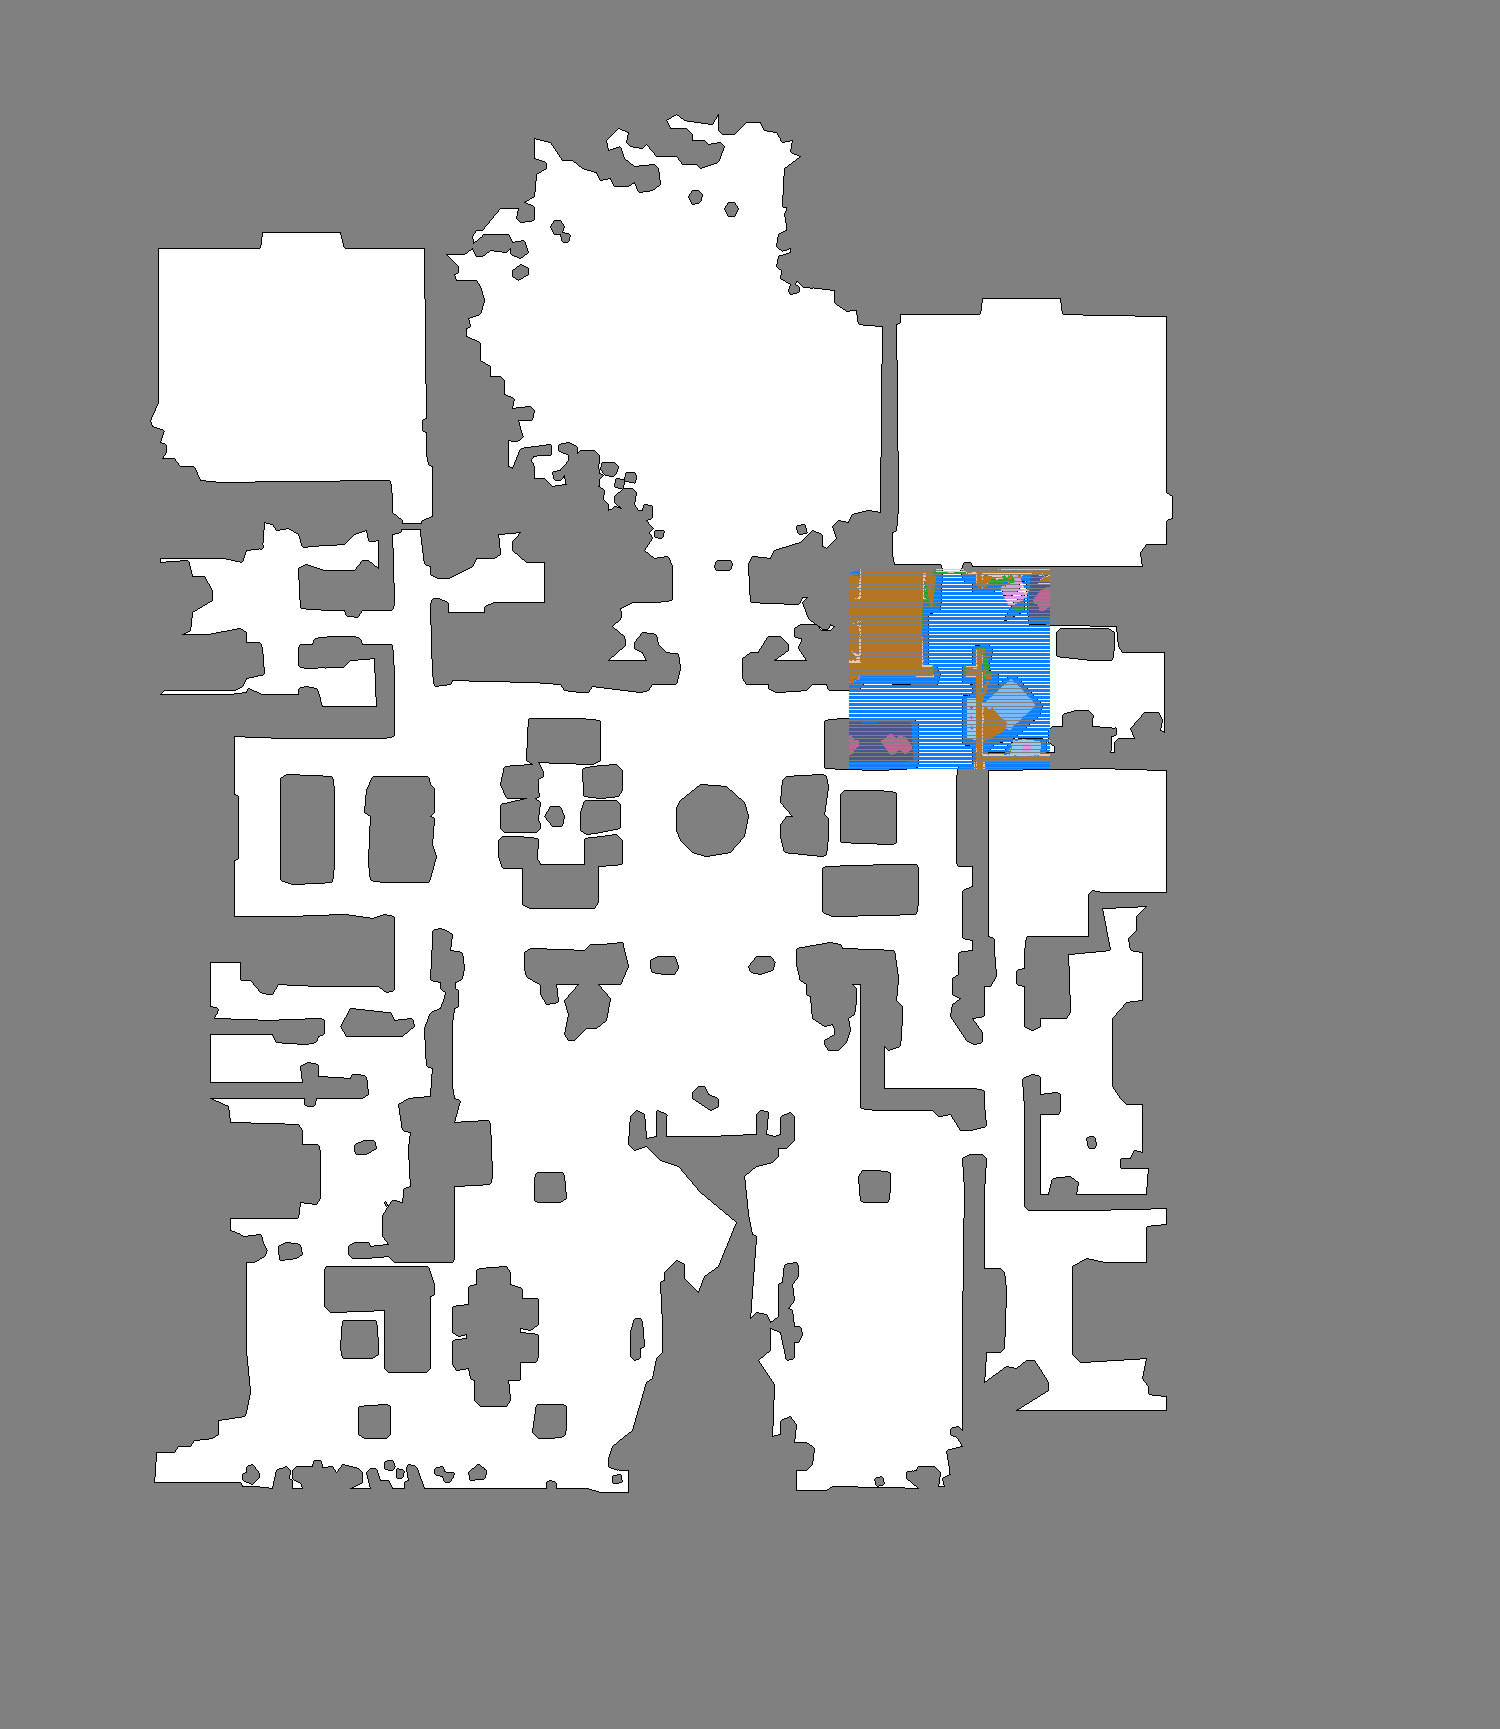
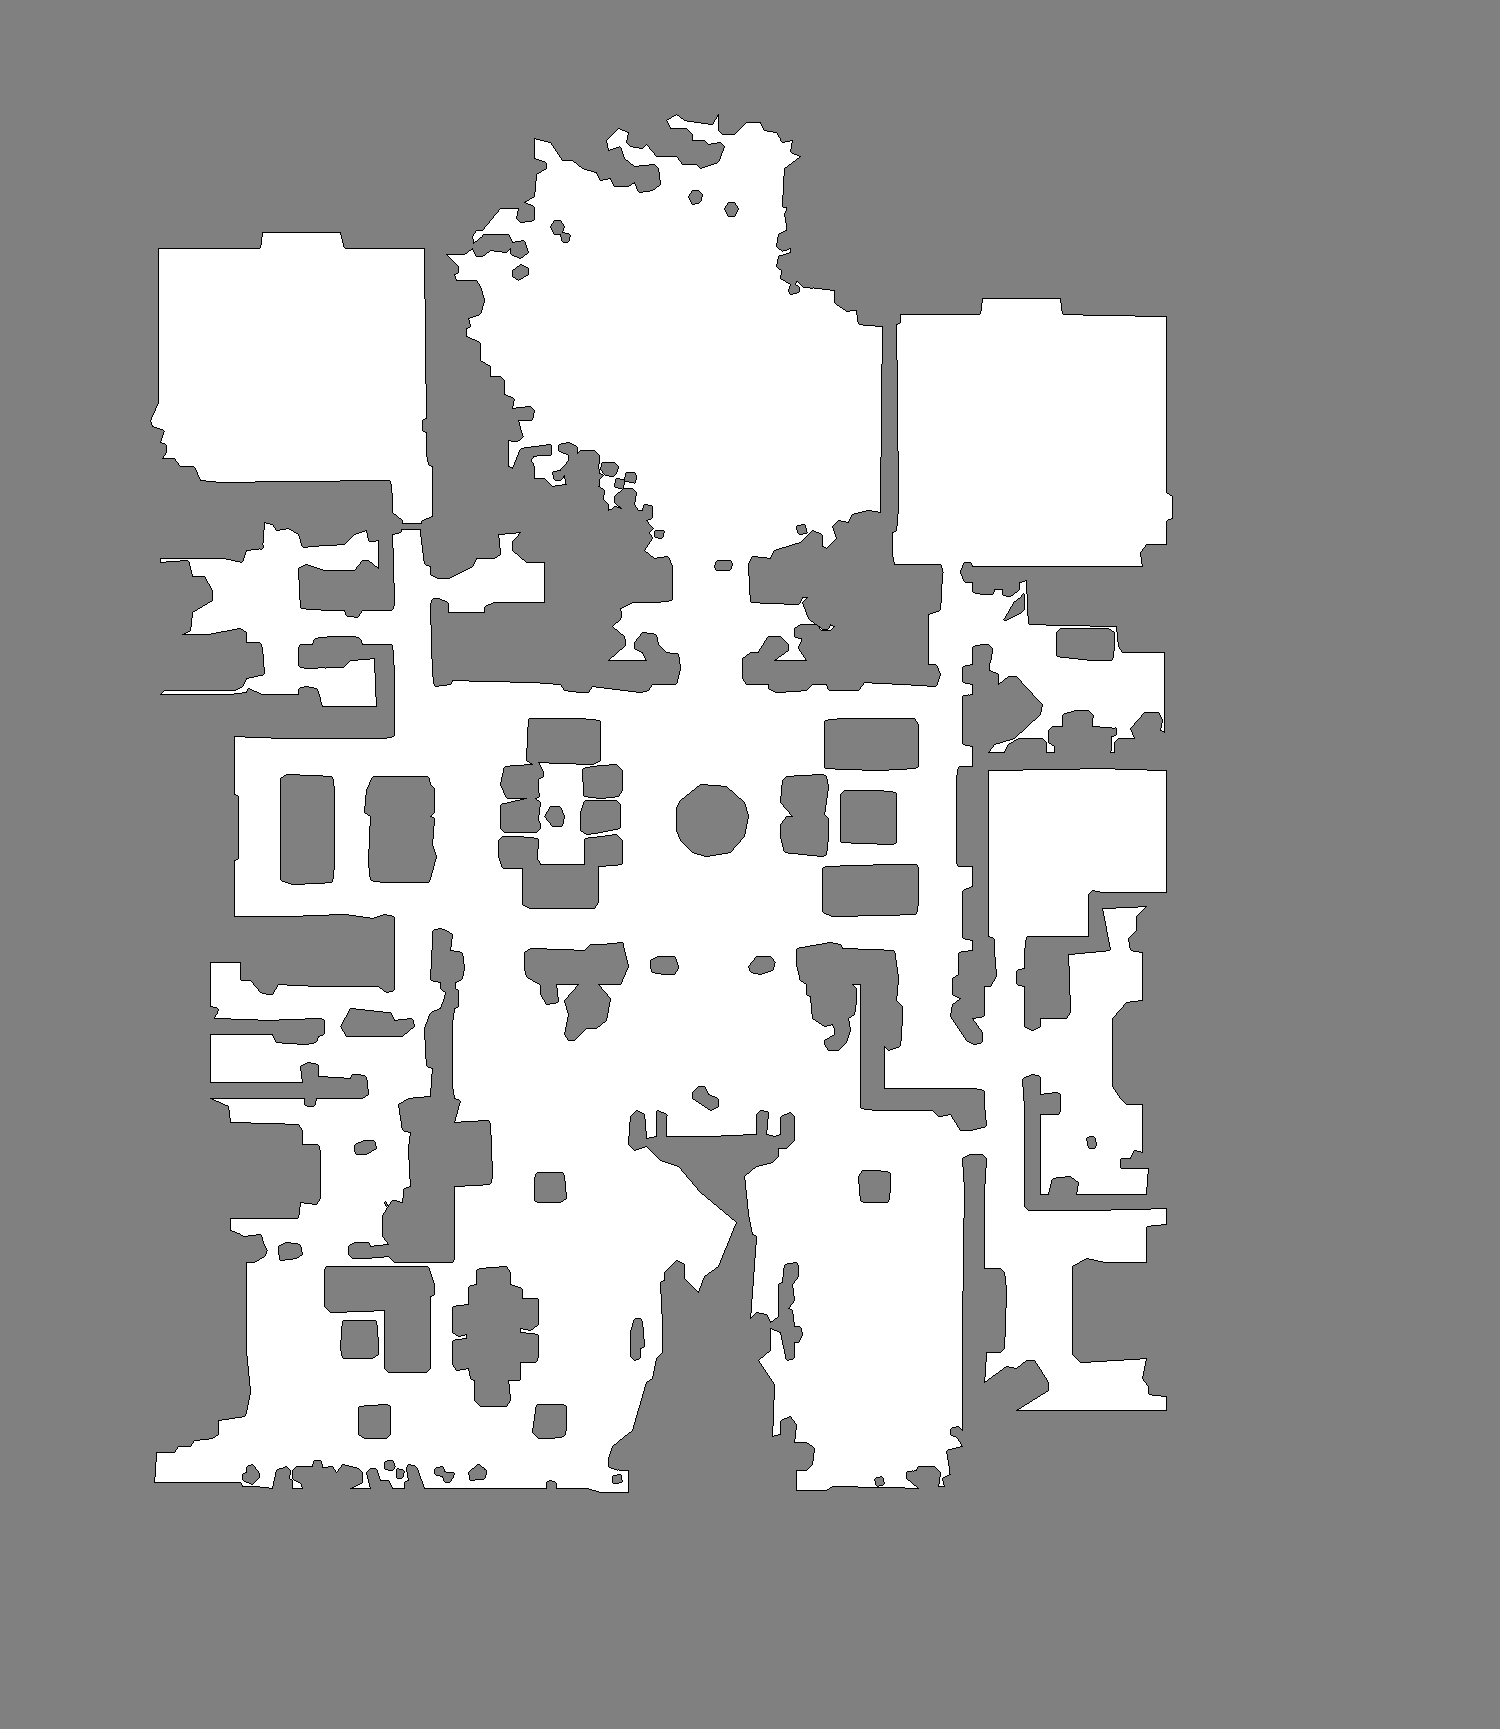
physics sim timing is off

Changed region(s): [[0.552, 0.3123, 0.7053, 0.4685]]

diff --git a/scripts/door_refactor.py b/scripts/door_refactor.py
@@ -57,7 +57,7 @@ PARSER = argparse.ArgumentParser(description=None)
 PARSER.add_argument('-s', '--scene', default="17DRP5sb8fy", type=str, help='scene')
 ARGS = PARSER.parse_args()
 scene = ARGS.scene
-USE_RVO = False
+USE_RVO = True
 IMAGE_DIR = "/home/catkin_ws/src/habitat_ros_interface/images/current_scene"
 
 def sem_img_to_world(proj, cam, W,H, u, v, debug = False):
@@ -170,10 +170,10 @@ class sim_env(threading.Thread):
     current_orientation = []
     follower = []
     new_goal = False
-    control_frequency = 20
+    control_frequency = 30
     time_step = 1.0 / (control_frequency)
     _r_control = rospy.Rate(control_frequency)
-    human_control_frequency = 5
+    human_control_frequency = 30
     human_time_step = 1/human_control_frequency
     linear_velocity = np.array([0.0,0.0,0.0])
     angular_velocity = np.array([0.0,0.0,0.0])
@@ -312,7 +312,7 @@ class sim_env(threading.Thread):
         agents_initial_pos_3d =[]
         agents_goal_pos_3d = []
         agents_initial_pos_3d.append(path.points[0])
-        agents_goal_pos_3d.append(path.points[1])
+        agents_goal_pos_3d.append(path.points[-1])
         sphere_template_id = obj_template_mgr.load_configs('./scripts/sphere')[0]
         file_obj = rigid_obj_mgr.add_object_by_template_id(sphere_template_id)
         # self.objs.append(obj)
@@ -350,6 +350,8 @@ class sim_env(threading.Thread):
             
             #### Pick a random start location for this agent ####
             start_pos_3d, a = self.get_in_band_around_door()
+            while(not self.is_point_on_other_side(start_pos_3d, agent_state.position)):
+                start_pos_3d, a = self.get_in_band_around_door()
             # start_pos = from_grid(self.env._sim.pathfinder, start_pos_3d, self.grid_dimensions)
             temp_goal_pos_3d, a = self.get_in_band_around_door()
             while(not self.is_point_on_other_side(start_pos_3d, temp_goal_pos_3d)):
@@ -363,7 +365,7 @@ class sim_env(threading.Thread):
                 print("Watch this one Tribhi!!!!",i)
                 continue
             humans_initial_pos_3d.append(path.points[0])
-            humans_goal_pos_3d.append(path.points[1])
+            humans_goal_pos_3d.append(path.points[-1])
             human_initial_pos = list(to_grid(self.env._sim.pathfinder, humans_initial_pos_3d[-1], self.grid_dimensions))
             human_initial_pos = [pos*0.025 for pos in human_initial_pos]
             goal_pos = list(to_grid(self.env._sim.pathfinder, humans_goal_pos_3d[-1], self.grid_dimensions))
@@ -394,7 +396,7 @@ class sim_env(threading.Thread):
             self.goal_dist[k+1] = np.linalg.norm((np.array(self.initial_state[k+1][0:2])-np.array(self.initial_state[k+1][4:6])))
         
         if USE_RVO:
-            self.sfm = ped_rvo(self, map_path = "./maps/resolution_"+scene+"_0.025.pgm", resolution = 0.025)
+            self.sfm = ped_rvo(self, map_path = "./images/current_scene/small_top_down.png", resolution = 0.025)
             print("Initialized rvo2 sim")
         else:
             self.sfm = social_force(self, map_path = "./maps/resolution_"+scene+"_0.025.pgm", resolution = 0.025, groups = self.groups)
@@ -405,6 +407,8 @@ class sim_env(threading.Thread):
         agent_state = self.env.sim.get_agent_state(0)
         self.map_to_base_link({'x': initial_pos[0], 'y': initial_pos[1], 'theta': self.env.sim.robot.base_rot})
         self.initial_pos = initial_pos
+        computed_velocity = self.sfm.get_velocity(np.array(self.initial_state), groups = self.groups, filename = "result_counter"+str(self.update_counter), save_anim= True)
+        exit(0)
         print("created habitat_plant succsefully")
 
     def get_in_band_around_door(self, agent_rotation = None):
@@ -604,7 +608,7 @@ class sim_env(threading.Thread):
         #### Calculate new velocity
         
         computed_velocity = self.sfm.get_velocity(np.array(self.initial_state), groups = self.groups, filename = "result_counter"+str(self.update_counter))
-        
+        print(computed_velocity)
         #### Setting velocity for the other humans 
         for k in range(self.N):
             human_state = self.objs[k].rigid_state

diff --git a/scripts/get_topdown_map_old.py b/scripts/get_topdown_map_old.py
@@ -180,24 +180,43 @@ def get_topdown_map(config_paths, map_name, selected_door_number = None, select_
         [[128, 128, 128], [255, 255, 255], [0, 0, 0]], dtype=np.uint8
     )
     hablab_topdown_map = recolor_map[hablab_topdown_map]
+    small_top_down_map = 255*np.ones(hablab_topdown_map.shape)
     semantic_img_camera_mat = np.array(render_camera.render_camera.camera_matrix)
     semantic_img_proj_mat = np.array(render_camera.render_camera.projection_matrix)
     grid_dimensions = (hablab_topdown_map.shape[0], hablab_topdown_map.shape[1])
-    for i in range(0,semantic_img.shape[0],5):
-        for j in range(0,semantic_img.shape[1], 2):
+    grid_points = np.ones([semantic_img.shape[0],semantic_img.shape[1],2])
+    for i in range(0,semantic_img.shape[0],1):
+        for j in range(0,semantic_img.shape[1], 1):
             world_coordinates = sem_img_to_world(semantic_img_proj_mat, semantic_img_camera_mat, semantic_img.shape[0], semantic_img.shape[1], i, j)
             [x,y] = list(maps.to_grid(world_coordinates[2], world_coordinates[0], grid_dimensions, pathfinder = env._sim.pathfinder))
             # print([i,j])
             # x = x - 1
+            grid_points[i,j,0] = x
+            grid_points[i,j,1] = y
             if (i ==j == 360):
                 center_gt = list(maps.to_grid(chosen_object.aabb.center[2], chosen_object.aabb.center[0] , grid_dimensions, pathfinder = env._sim.pathfinder,))
                 print(center_gt[0] - x, center_gt[1]-y)
             try:
-                hablab_topdown_map[x,y] = semantic_img[i, j, 0:3]
+                small_top_down_map[x,y] = hablab_topdown_map[x,y]
+                # hablab_topdown_map[x,y] = semantic_img[i, j, 0:3]
             except:
                 embed()
-
+    # grid_points = np.array(grid_points)
+    min_x = int(np.min(grid_points[:,:,0]))
+    min_y = int(np.min(grid_points[:,:,1]))
+    max_x = int(np.max(grid_points[:,:,0]))
+    max_y = int(np.max(grid_points[:,:,1]))
+    range_x = np.arange(min_x, max_x)
+    range_y = np.arange(min_y, max_y)
+    line_1 = np.column_stack((np.tile(min_x, range_y.size), range_y))
+    line_2 = np.column_stack((np.tile(max_x, range_y.size), range_y))
+    line_3 = np.column_stack((range_x, np.tile(min_y, range_x.size)))
+    line_4 = np.column_stack((range_x, np.tile(max_y, range_x.size)))
+    square = np.concatenate((line_1, line_2, line_3, line_4))
+    small_top_down_map[square[:,0], square[:,1],:] = [0,0,0]
+    print(min_x, min_y, max_x, max_y)
     cv2.imwrite(IMAGE_DIR+"/top_down_with_semantic_overlay.png", hablab_topdown_map)
+    cv2.imwrite(IMAGE_DIR+"/small_top_down.png", small_top_down_map)
     # observations_rgb = np.take(instance_label_mapping, observations['rgb'])
     # rgb_img = Image.new("P", (observations_rgb.shape[0], observations_rgb.shape[1],3))
     # rgb_img.pudata((observations_rgb))
@@ -274,11 +293,11 @@ def main(select_door = None):
         documents = yaml.dump(config, file)
     #first parameter is config path, second parameter is map name
 
-    if (not os.path.isfile("./maps/resolution_"+scene+"_"+str(meters_per_pixel)+".pgm")): 
-        if select_door:
-            total_doors, current_door = get_topdown_map("configs/tasks/pointnav_rgbd.yaml", "resolution_"+scene+"_"+str(meters_per_pixel), select_door)
-        else:
-            total_doors, current_door = get_topdown_map("configs/tasks/pointnav_rgbd.yaml", "resolution_"+scene+"_"+str(meters_per_pixel))
+    # if (not os.path.isfile("./maps/resolution_"+scene+"_"+str(meters_per_pixel)+".pgm")): 
+    if select_door:
+        total_doors, current_door = get_topdown_map("configs/tasks/pointnav_rgbd.yaml", "resolution_"+scene+"_"+str(meters_per_pixel), select_door)
+    else:
+        total_doors, current_door = get_topdown_map("configs/tasks/pointnav_rgbd.yaml", "resolution_"+scene+"_"+str(meters_per_pixel))
     print("Chosen gate %d from %d doors ", current_door, total_doors)
 
 

diff --git a/scripts/get_trajectory_rvo.py b/scripts/get_trajectory_rvo.py
@@ -118,7 +118,7 @@ class ped_rvo():
         self.load_obs_from_map(map_path, resolution)
         self.fig, self.ax = plt.subplots()
         self.plot_obstacles()
-        self.max_counter = int(30/my_env.human_time_step)
+        self.max_counter = int(20/my_env.human_time_step)
         self.update_number = 0
         self.orca_ped = []
         initial_state = my_env.initial_state
@@ -244,8 +244,9 @@ class ped_rvo():
             if (self.update_number < self.max_counter):
                 self.ax.plot(x, y, "-o", label=f"ped {j}", markersize=2.5, color=colors[j], alpha = alpha[self.update_number])
                 self.ax.plot(initial_state[j][4], initial_state[j][5], "-x", label=f"ped {j}", markersize=2.5, color=colors[j], alpha = alpha[self.update_number])
-            print("Initial state is ",initial_state[j])
-            print("Point reaches in this step is ", [x,y])
+        print("Initial state is ",initial_state[1])
+        print("Point reaches in this step is ", [x,y])
+        print("Time step in rvo2 sim is", self.dt)
         if (self.update_number == self.max_counter):
                 print("saving the offline plot!!")
                 self.fig.savefig("save_stepwise_rvo2"+".png", dpi=300)
@@ -257,7 +258,7 @@ class ped_rvo():
         
         if save_anim:
             self.plot_obstacles()
-            num_steps = 1
+            num_steps = 10
             for i in range(num_steps):
                 self.orca_sim.doStep()
                 colors = plt.cm.rainbow(np.linspace(0, 1, len(initial_state)))

diff --git a/scripts/get_trajectory.py b/scripts/get_trajectory.py
@@ -36,13 +36,13 @@ class social_force():
             config_file=Path(__file__).resolve().parent.joinpath("/Py_Social_ROS/examples/example.toml"),
         )
         self.fig, self.ax = plt.subplots()
-        self.save_plot = False
+        self.save_plot = True
         if (self.save_plot):
             self.plot_obstacles()
         self.max_counter = int(20/my_env.human_time_step)
         self.update_number = 0
         self.dt = my_env.human_time_step
-        self.s.peds.step_width = 0.5*my_env.human_time_step
+        self.s.peds.step_width = 0.4*my_env.human_time_step
         
         
     def load_obstacles(self, env):
